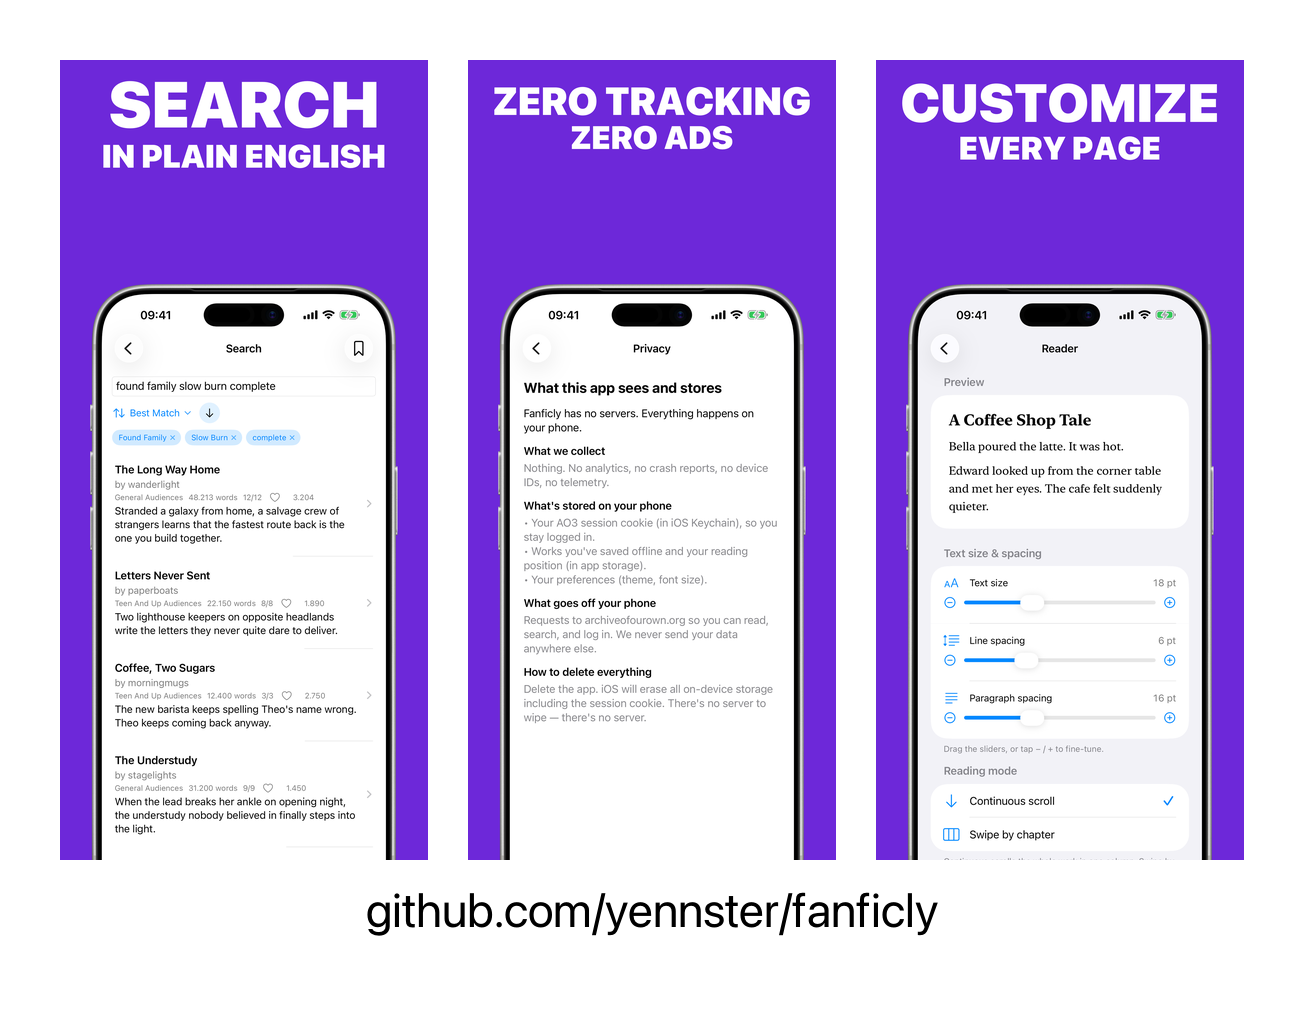
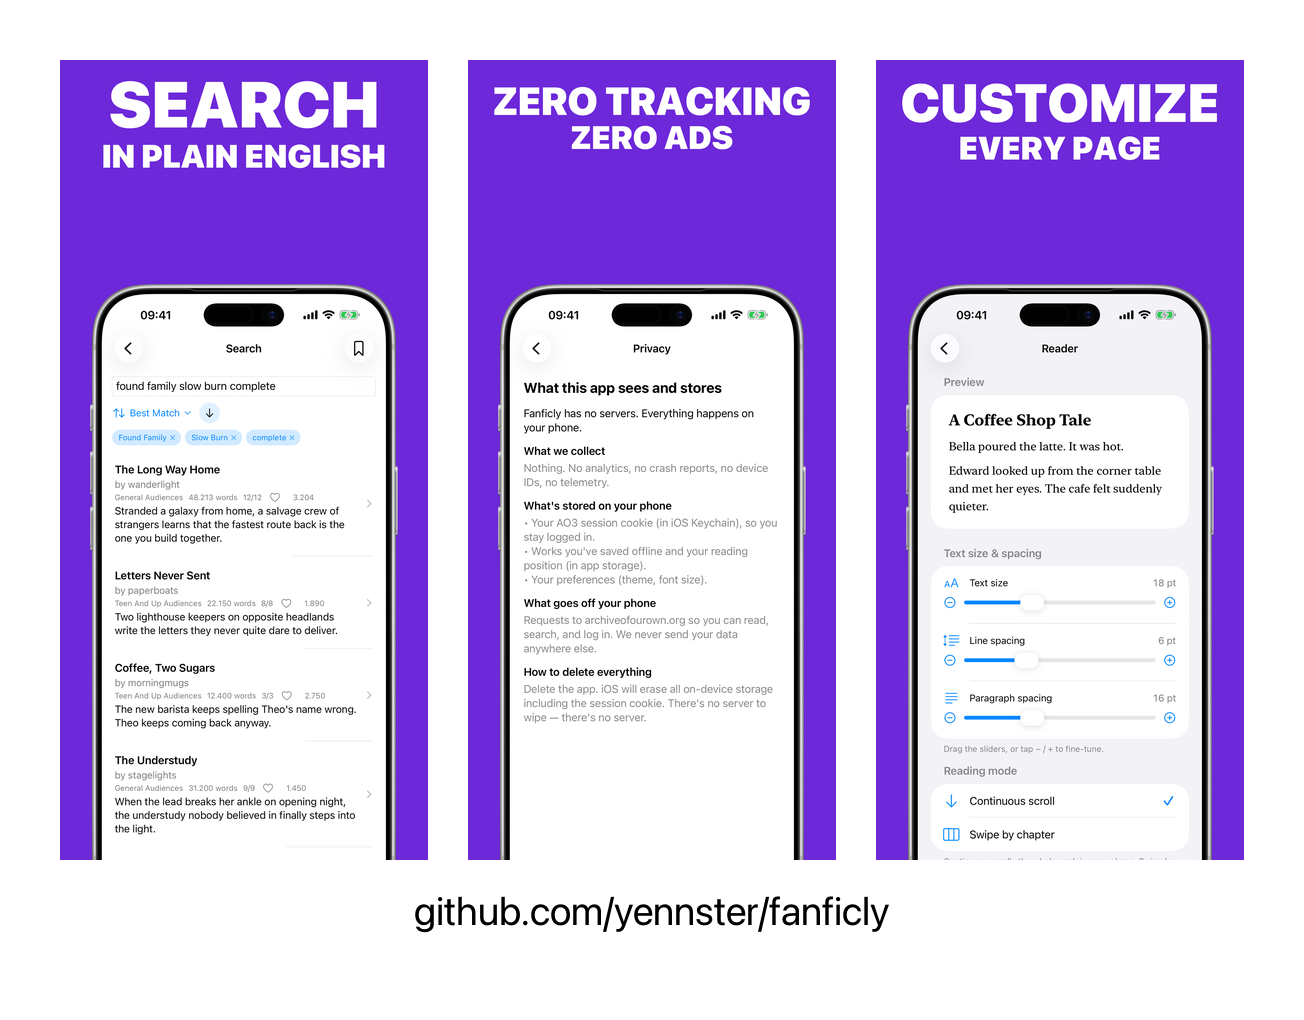
frame-screenshots: emit the tracked marketing set + showcase
bin/frame-screenshots.py now writes each framed image to BOTH
screenshots/final/{iphone,ipad}/ (the tracked set the README uses) and
fastlane/screenshots/en-US/ (deliver upload), and regenerates
screenshots/showcase.png from the first three iPhone shots. Re-running the
pipeline (`fastlane screenshots`) now keeps the README assets in sync instead
of only updating the deliver folder.

Changed region(s): [[0.2761, 0.8814, 0.7362, 0.9118]]

diff --git a/bin/frame-screenshots.py b/bin/frame-screenshots.py
@@ -6,10 +6,12 @@ Reads the deterministic demo-mode shots captured by
 `FanficlyUITests/ScreenshotTests` from docs/screenshots/{iphone,ipad}/ and
 turns each into a high-converting App Store screenshot: a real Apple device
 frame (via `fastlane frameit`) on a solid brand-violet canvas with a bold
-two-line headline (action verb + benefit). Output goes to
-fastlane/screenshots/en-US/ at exact App Store pixel sizes, so
-`fastlane deliver` can upload them directly (it picks the 6.9"/13" slot by
-resolution).
+two-line headline (action verb + benefit). Each image is written to BOTH:
+  - screenshots/final/{iphone,ipad}/   — the tracked marketing set (README)
+  - fastlane/screenshots/en-US/        — what `fastlane deliver` uploads
+…at exact App Store pixel sizes (deliver picks the 6.9"/13" slot by resolution).
+It also (re)builds screenshots/showcase.png — the README hero strip — from the
+first three iPhone shots, so re-running keeps the README assets in sync.
 
 Pipeline per screenshot:
   1. frameit wraps the raw shot in a genuine Apple bezel → device-on-transparent
@@ -33,10 +35,15 @@ from PIL import Image, ImageDraw, ImageFont
 
 REPO = os.path.dirname(os.path.dirname(os.path.abspath(__file__)))
 RAW = os.path.join(REPO, "docs", "screenshots")
-OUT = os.path.join(REPO, "fastlane", "screenshots", "en-US")
+OUT = os.path.join(REPO, "fastlane", "screenshots", "en-US")   # what `deliver` uploads
+FINAL = os.path.join(REPO, "screenshots", "final")             # tracked marketing set (README)
+SHOWCASE = os.path.join(REPO, "screenshots", "showcase.png")   # README hero strip
+GITHUB_URL = "github.com/yennster/fanficly"
 
 BG = (0x6D, 0x28, 0xD9)  # Electric Violet — the ASO brand background
 FONT = "/Library/Fonts/SF-Pro-Display-Black.otf"
+# Caption font for the showcase strip (falls back to the headline font, then default).
+SHOWCASE_FONTS = ["/Library/Fonts/SF-Pro-Display-Regular.otf", FONT]
 
 # (raw basename, output slug, action verb, benefit descriptor). Output order =
 # this order; deliver sorts by filename, so the NN prefix preserves it.
@@ -125,14 +132,39 @@ def compose(g, verb, desc, framed_path, out_path):
     Image.alpha_composite(canvas, layer).convert("RGB").save(out_path, "PNG")
 
 
+def make_showcase(paths, out_path):
+    """README hero strip: up to 3 marketing shots side-by-side + the GitHub URL."""
+    target_h, pad, gap, bar = 800, 60, 40, 100
+    scaled = [Image.open(p).convert("RGBA") for p in paths]
+    scaled = [im.resize((round(im.width * target_h / im.height), target_h), Image.LANCZOS)
+              for im in scaled]
+    W = sum(s.width for s in scaled) + gap * (len(scaled) - 1) + pad * 2
+    H = target_h + pad * 2 + bar
+    canvas = Image.new("RGB", (W, H), (255, 255, 255))
+    x = pad
+    for s in scaled:
+        canvas.paste(s, (x, pad), s)
+        x += s.width + gap
+    font = next((ImageFont.truetype(f, 40) for f in SHOWCASE_FONTS if os.path.exists(f)),
+                ImageFont.load_default())
+    ImageDraw.Draw(canvas).text((W // 2, pad + target_h + bar // 2), GITHUB_URL,
+                                fill="#000000", font=font, anchor="mm")
+    os.makedirs(os.path.dirname(out_path), exist_ok=True)
+    canvas.save(out_path)
+    print(f"  ✓ {os.path.relpath(out_path, REPO)}")
+
+
 def main():
     os.makedirs(OUT, exist_ok=True)
     made = 0
+    iphone_finals = []
     for device, g in DEVICES.items():
         src = os.path.join(RAW, device)
         if not os.path.isdir(src):
             print(f"skip {device}: {src} not found")
             continue
+        final_dir = os.path.join(FINAL, device)
+        os.makedirs(final_dir, exist_ok=True)
         work = tempfile.mkdtemp(prefix=f"frameit-{device}-")
         # Stage slug-named (and frame-sized) screenshots for frameit.
         staged = []
@@ -148,16 +180,22 @@ def main():
             shot.save(os.path.join(work, f"{slug}.png"))
             staged.append((slug, verb, desc))
         if not staged:
+            shutil.rmtree(work, ignore_errors=True)
             continue
         run_frameit(work)
         for slug, verb, desc in staged:
             framed = os.path.join(work, f"{slug}_framed.png")
-            out = os.path.join(OUT, f"{device}-{slug}.png")
-            compose(g, verb, desc, framed, out)
-            print(f"  ✓ {os.path.basename(out)}")
+            final_out = os.path.join(final_dir, f"{slug}.png")
+            compose(g, verb, desc, framed, final_out)              # tracked marketing image
+            shutil.copy(final_out, os.path.join(OUT, f"{device}-{slug}.png"))  # deliver upload
+            print(f"  ✓ {device}-{slug}.png")
             made += 1
+            if device == "iphone":
+                iphone_finals.append(final_out)
         shutil.rmtree(work, ignore_errors=True)
-    print(f"Done — {made} framed images in {OUT}")
+    if iphone_finals:
+        make_showcase(iphone_finals[:3], SHOWCASE)
+    print(f"Done — {made} framed images → screenshots/final/ and fastlane/screenshots/en-US/")
 
 
 if __name__ == "__main__":
